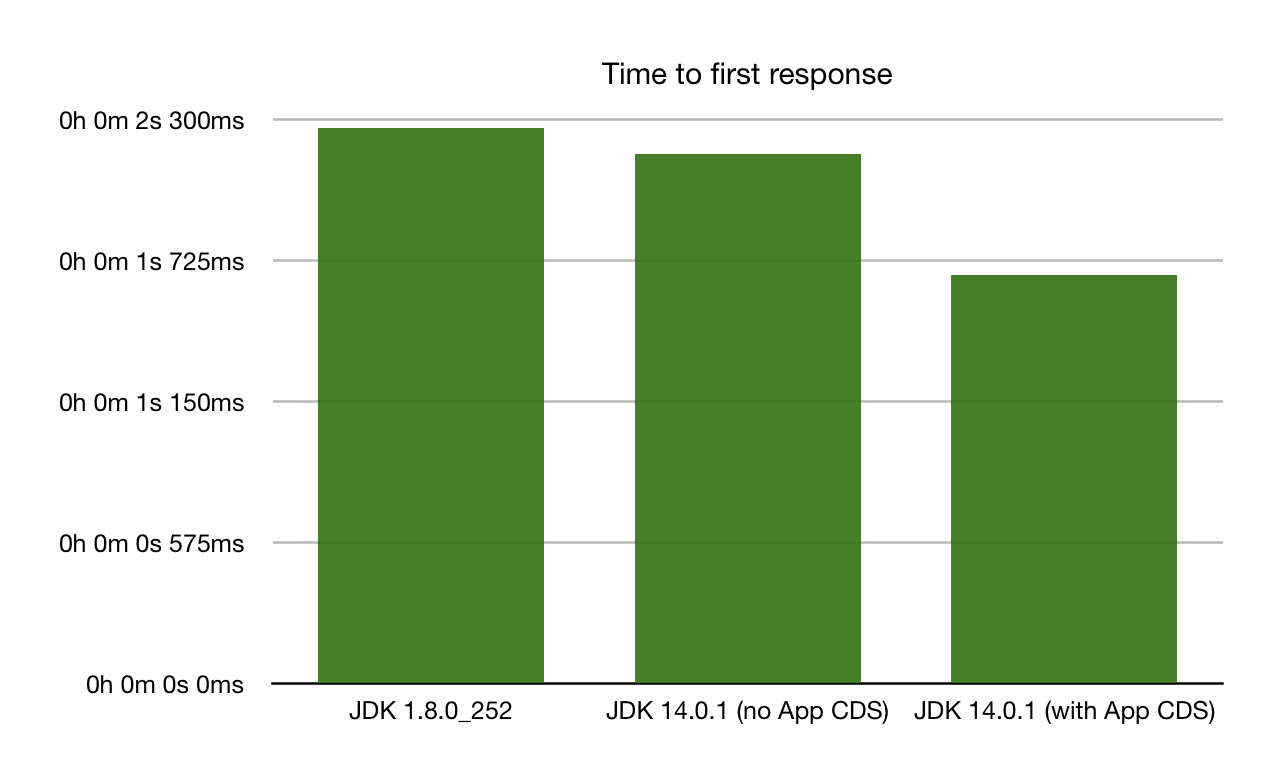
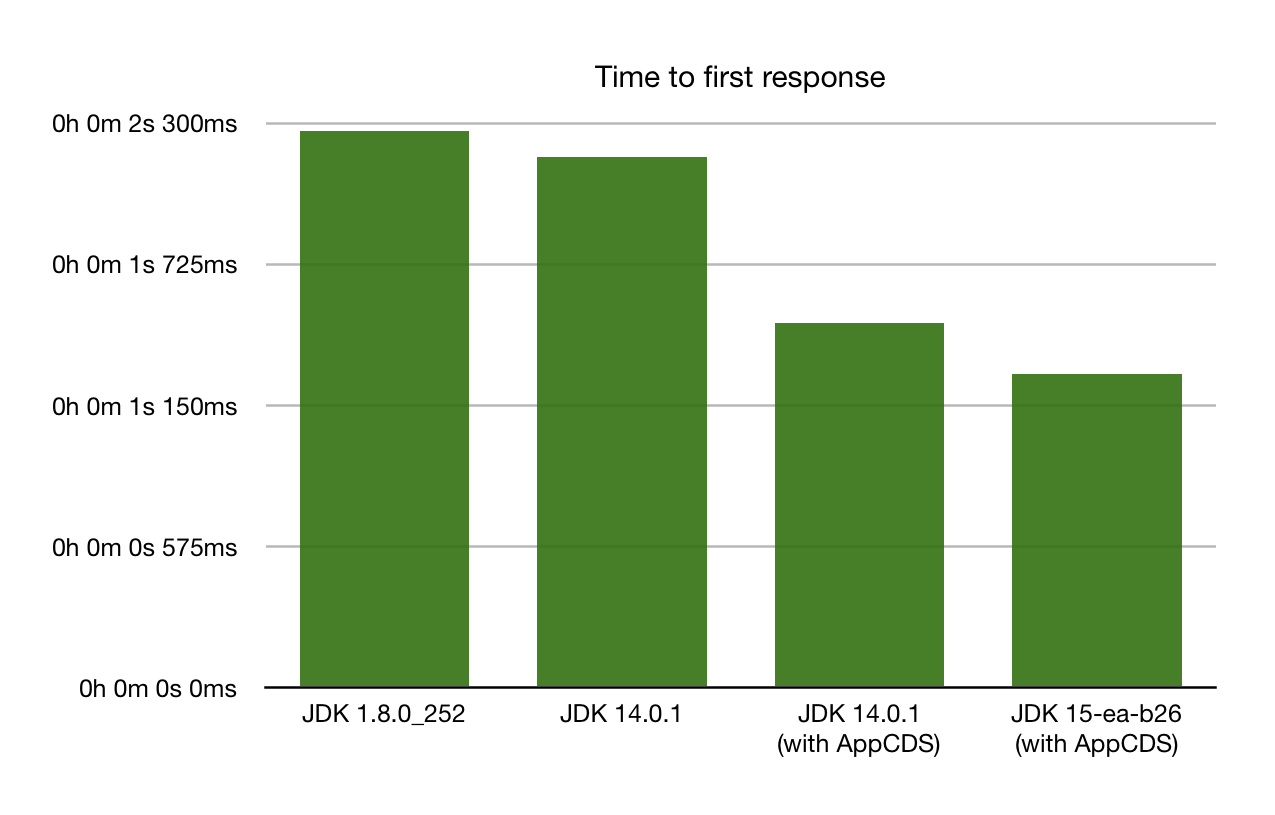
Automated deployment: Fri Jun 12 10:08:35 UTC 2020 c386d2c329dd1da48abbae79417261c163ef8070

diff --git a/blog/building-class-data-sharing-archives-with-apache-maven/index.html b/blog/building-class-data-sharing-archives-with-apache-maven/index.html
@@ -604,9 +604,12 @@ this measures the time until the application is actually ready to handle the fir
 <div class="paragraph">
 <p>I&#8217;ve done measurements on OpenJDK 1.8.0_252
 (<a href="https://adoptopenjdk.net/">AdoptOpenJDK</a> build),
-and OpenJDK 14.0.1 (<a href="http://jdk.java.net/14/">upstream build</a>), without and with App CDS.
-Please see the <a href="https://github.com/gunnarmorling/quarkus-cds/#run-measurements">README file</a> of the example repo for the exact steps.
-Here are the numbers, averaged over ten runs each:</p>
+OpenJDK 14.0.1 (<a href="http://jdk.java.net/14/">upstream build</a>, without and with AppCDS),
+and OpenJDK 15-ea-b26 (<a href="http://jdk.java.net/15/">upstream build</a>, withoutwith AppCDS).
+Please see the <a href="https://github.com/gunnarmorling/quarkus-cds/#run-measurements">README file</a> of the example repo for the exact steps.</p>
+</div>
+<div class="paragraph">
+<p>Here are the numbers, averaged over ten runs each:</p>
 </div>
 <div class="imageblock">
 <div class="content">
@@ -614,13 +617,26 @@ Here are the numbers, averaged over ten runs each:</p>
 </div>
 </div>
 <div class="paragraph">
-<p>Time-to-first-response values are 2s 267ms, 2s 162ms, and 1s 669ms.
-I.e. on my machine (2014 MacBook Pro), with this specific workload, there&#8217;s an improvement by ~100ms just by upgrading to the current JDK,
-and another ~500ms by using App CDS.
-That&#8217;s definitely a nice improvement, in particular as we get it essentially for free, without any changes to the actual application itself.</p>
+<p><em>Update, June 12th: I had originally classload logging enabled for the OpenJDK 14 AppCDS runs,
+which added an unneccessary overhead
+(thanks a lot to <a href="https://twitter.com/cl4es">Claes Redestad</a> for pointing this out!).
+The numbers and chart have been updated accordingly.
+I&#8217;ve also added numbers for OpenJDK 15-ea.</em></p>
 </div>
 <div class="paragraph">
-<p>You should contrast this with the additional size of the application distribution, though.
+<p>Time-to-first-response values are 2s 267ms, 2s 162ms, <del>1s 669ms</del> 1s 483ms, and 1s 279ms.
+I.e. on my machine (2014 MacBook Pro), with this specific workload, there&#8217;s an improvement of ~100ms just by upgrading to the current JDK,
+and of another <del>~500ms</del> ~700ms by using App CDS.</p>
+</div>
+<div class="paragraph">
+<p>With OpenJDK 15 things will further improve.
+The latest EA build at the time of writing (b26) shortens time-to-first-response by another ~200ms.
+The upcoming EA build 27 should bring another improvement,
+as Lambda proxy classes <a href="https://bugs.openjdk.java.net/browse/JDK-8198698">will be added</a> to AppCDS archives then.</p>
+</div>
+<div class="paragraph">
+<p>That all is definitely a nice improvement, in particular as we get it essentially for free, without any changes to the actual application itself.
+You should contrast this with the additional size of the application distribution, though.
 E.g. when obtaining the application as a container image from a remote container registry,
 downloading the additional ~40 MB might take longer than the time saved during application start-up.
 Typically, this will only affect the first start-up of on a particular node, though, after which the image will be cached locally.</p>
@@ -657,7 +673,7 @@ This might give you a good balance between additional size and realized improvem
 <div class="paragraph">
 <p>AppCDS provides Java developers with a useful tool for reducing start-up times of their applications,
 without requiring any code changes.
-For the example discussed, we could observe an improvement of the time-to-first-response metric by about 20%.
+For the example discussed, we could observe an improvement of the time-to-first-response metric by about 30% when running with OpenJDK 14.
 Other users <a href="https://groups.google.com/d/msg/quarkus-dev/c10cGsXriI8/TJvn6QRTAwAJ">reported even bigger improvements</a>.</p>
 </div>
 <div class="paragraph">
